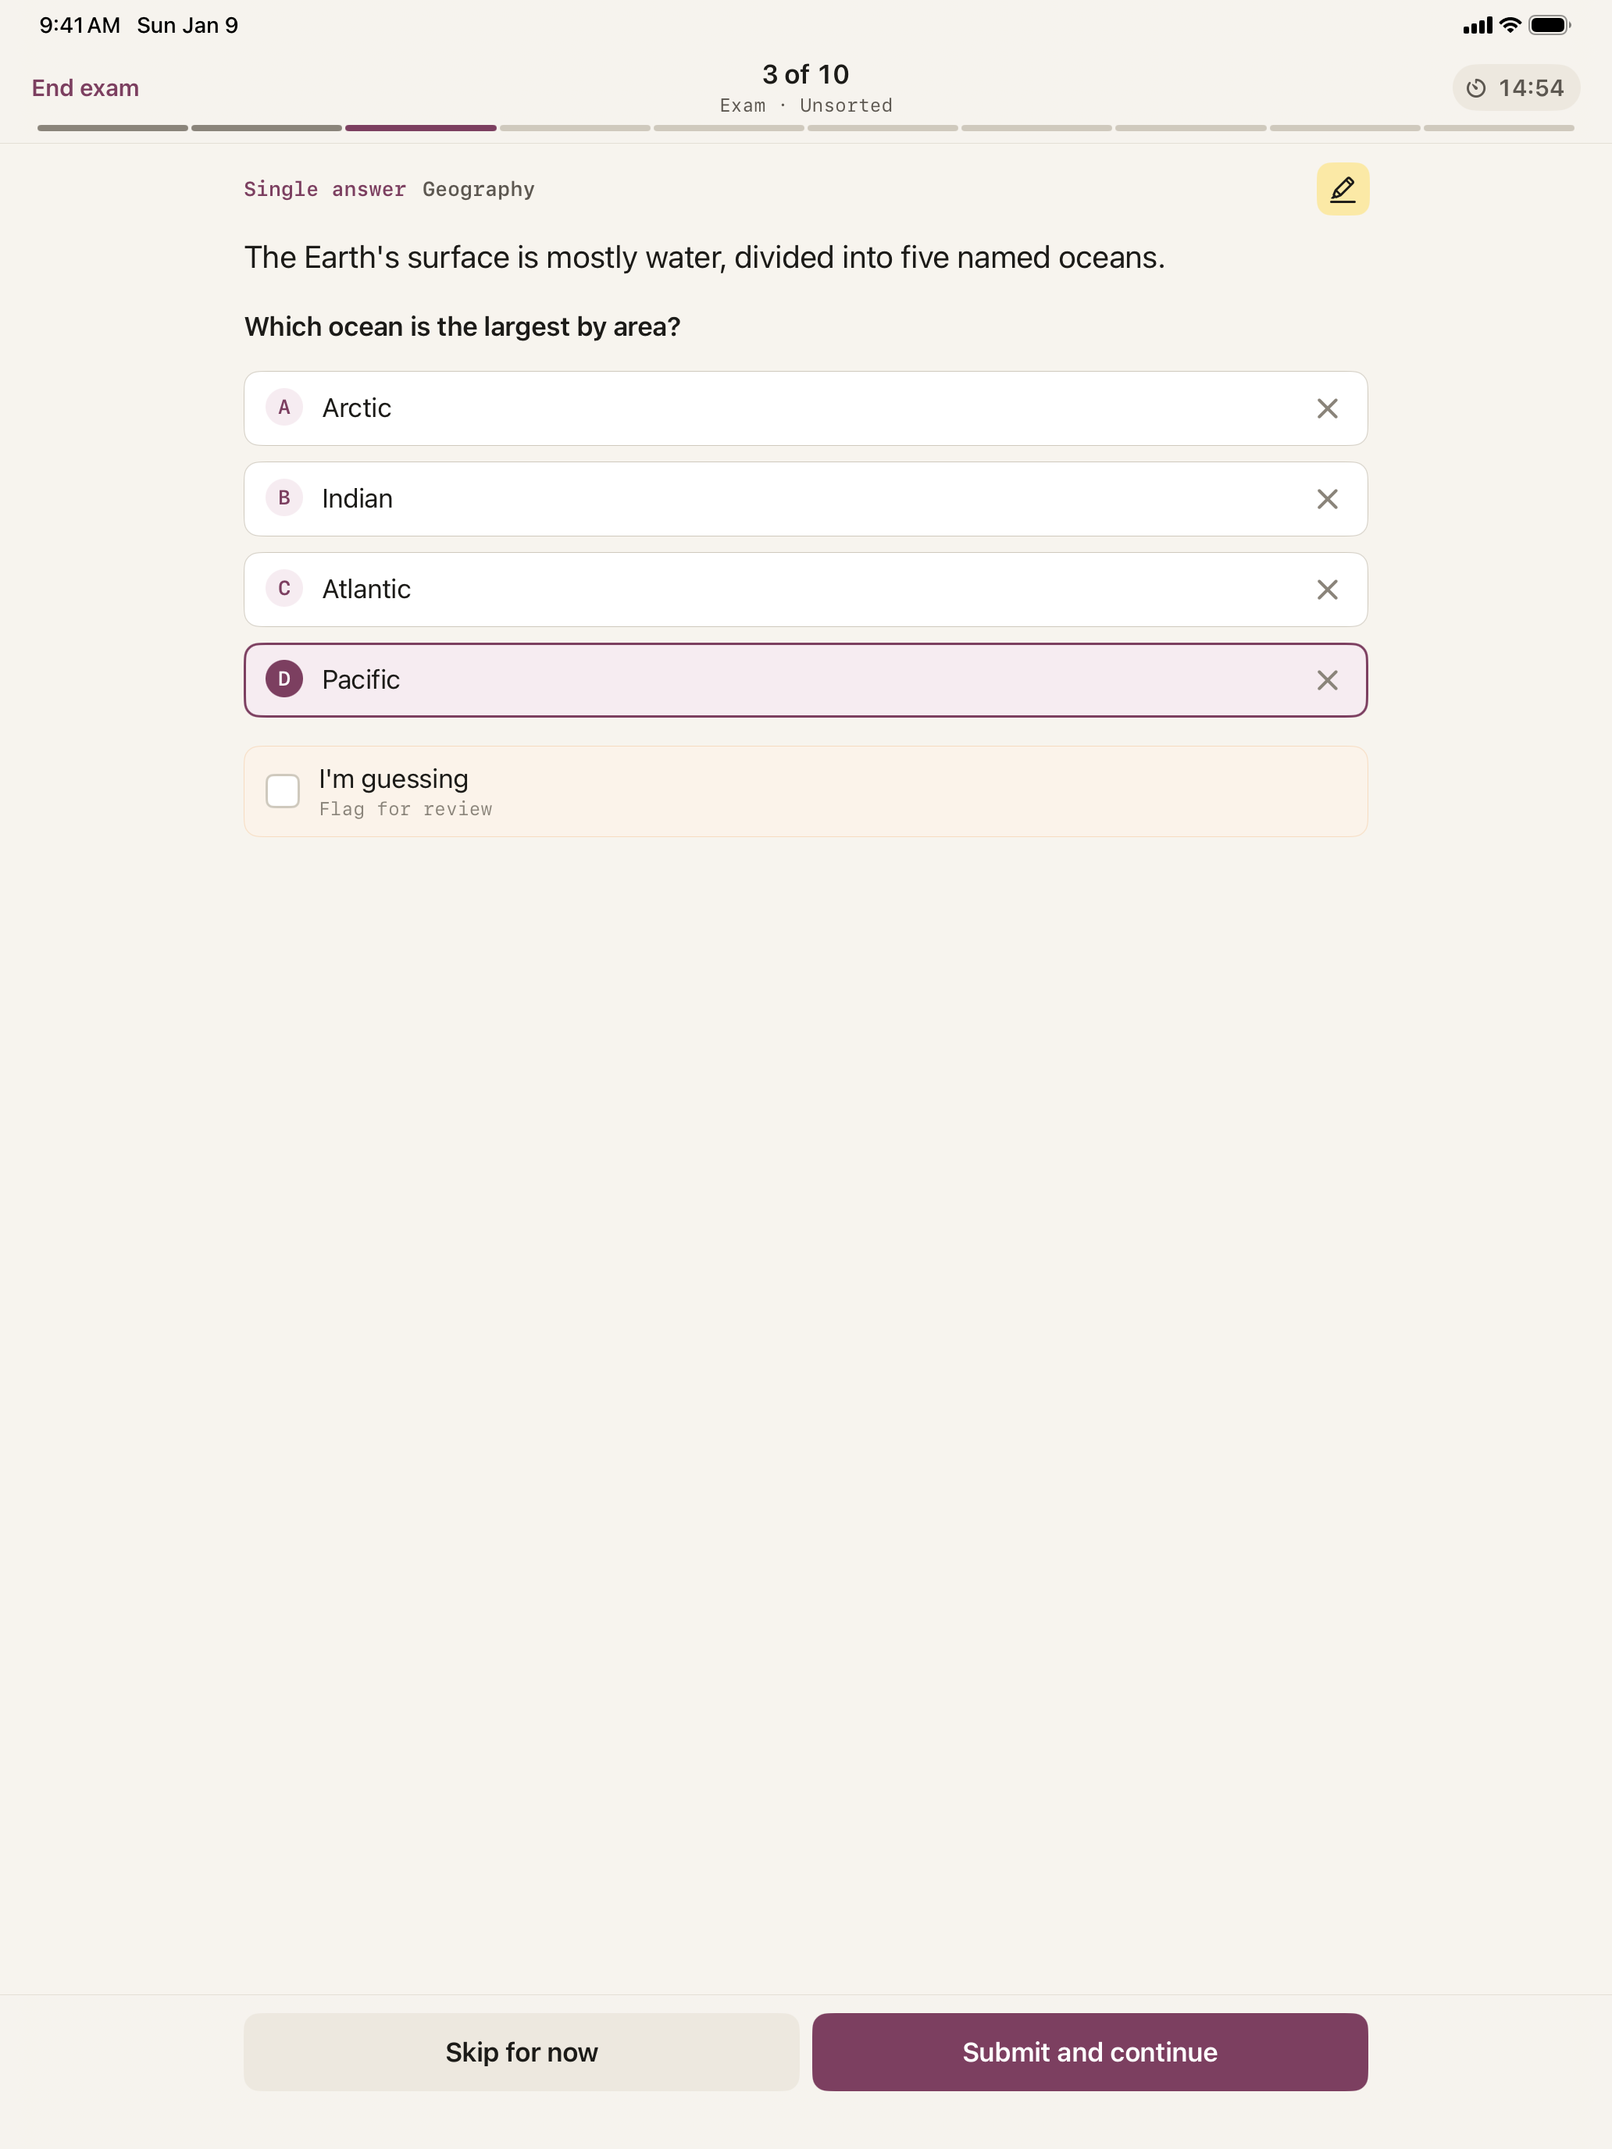
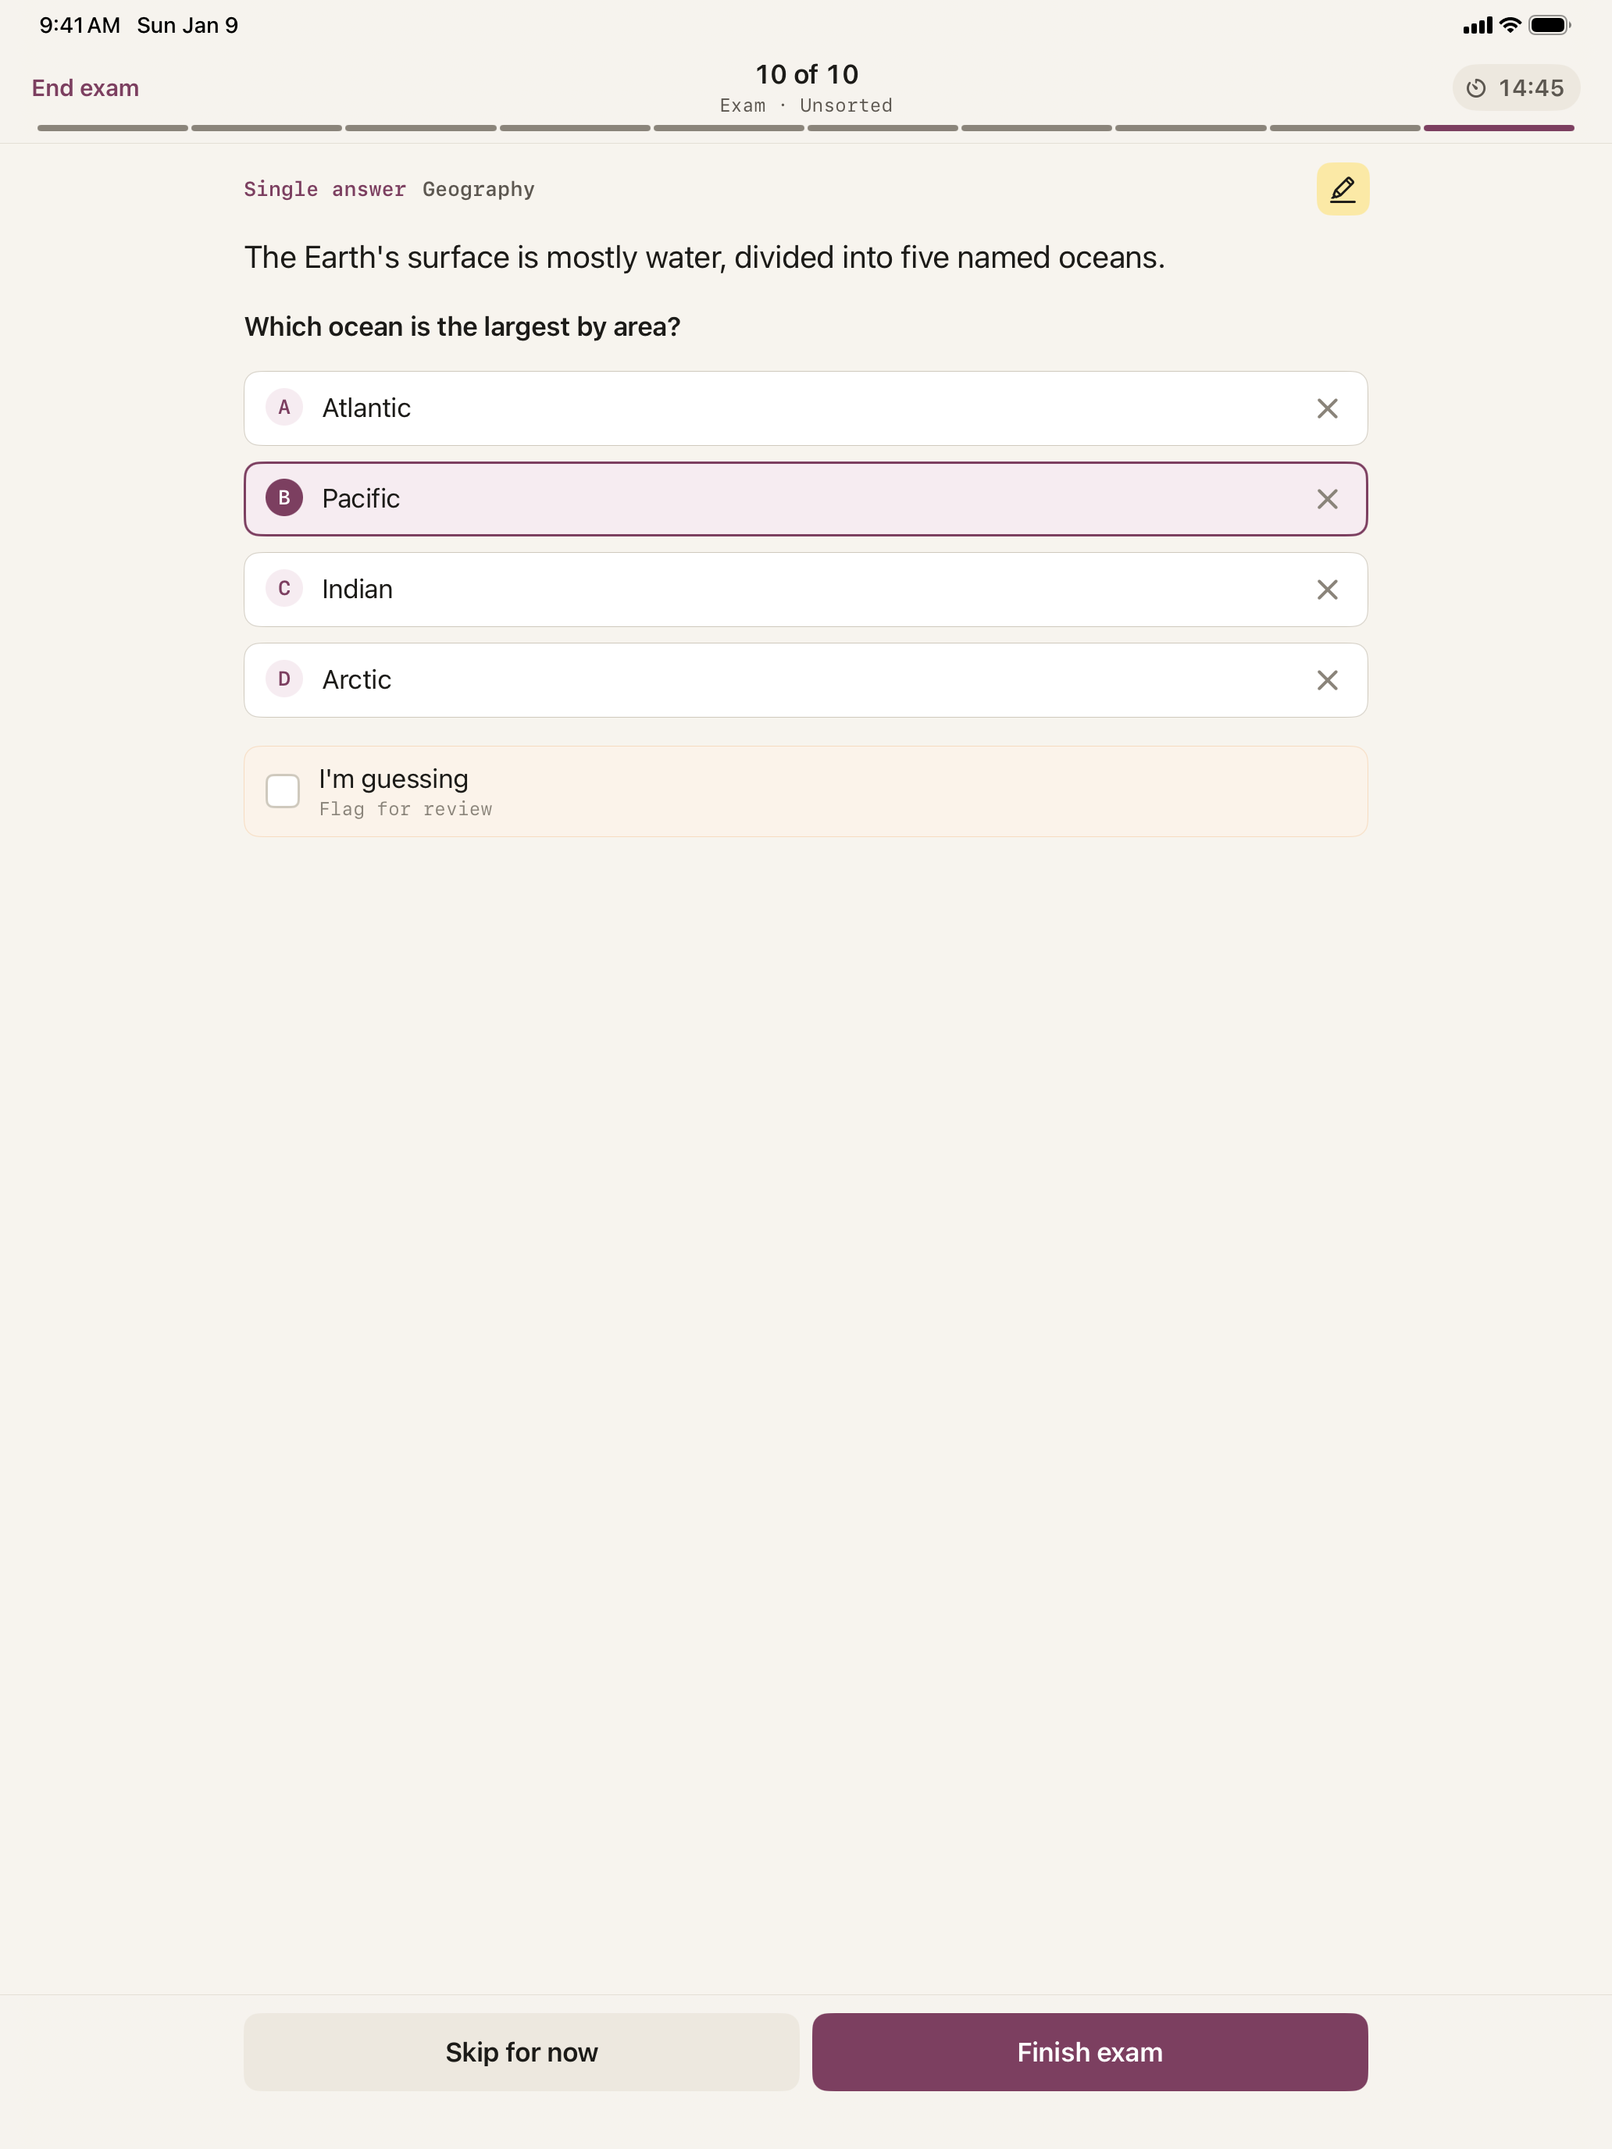
fix(qbank): fill the iPad status bar with the background and keep the exam buttons on one line (#125)
* fix(qbank): paint behind the iPad status bar and keep the exam buttons on one line

On iPad, Home's split view showed its own system background behind the status
bar, a white band in light and a black one in dark. It now takes the app's
canvas color.

On iPhone, "Submit and continue" wrapped in its half of the exam footer and
stood taller than "Skip for now". The two buttons now share a row in equal
halves where both labels fit, else Skip is as wide as its label and Submit takes
the rest, and at large text sizes they stack with Submit on top.

* fix(qbank): word Review's practice button for a single question

With one question under the chosen filter the button read "Practice these 1
(shuffled)". It now reads "Practice this question (shuffled)"; two or more read
as before.

* test(qbank): retake the App Store screenshots with the layout fixes

Taken with test/store-screenshots.sh: no band behind the iPad status bar, and
the exam's footer buttons the same height with one-line labels.

diff --git a/QBank/Exam/ExamAnswerButtons.swift b/QBank/Exam/ExamAnswerButtons.swift
@@ -1,0 +1,81 @@
+import QBankDesign
+import SwiftUI
+
+/// An exam's footer on a question: Skip for now, then Submit and continue or on the last one
+/// Finish exam, as tall as each other and neither label wrapping.
+struct ExamAnswerButtons: View {
+    let submitTitle: String
+    let canSkip: Bool
+    let canSubmit: Bool
+    let frozen: FrozenView
+    let skip: () -> Void
+    let submit: () -> Void
+
+    var body: some View {
+        ExamButtonsLayout {
+            Button("Skip for now", action: skip)
+                .buttonStyle(style(.quiet))
+                .disabled(!canSkip)
+                .accessibilityIdentifier("exam.skip")
+            Button(submitTitle, action: submit)
+                .buttonStyle(style(.primary))
+                .disabled(!canSubmit)
+                .answersWhenFrozen(frozen)
+                .accessibilityIdentifier("exam.submit")
+        }
+    }
+
+    /// Less room at the sides than a large button alone has, so both labels fit one row on the
+    /// narrowest iPhone.
+    private func style(_ variant: QBankButtonStyle.Variant) -> QBankButtonStyle {
+        .qbank(variant, size: .large, fullWidth: true, horizontalPadding: QBankSpacing.space5)
+    }
+}
+
+/// Places the first of two buttons, then the second: in equal halves of a row where each label
+/// fits a half; else the first as wide as its label and the second the rest of the row, as on the
+/// web; else, as at large text sizes, one above the other, the second on top.
+private struct ExamButtonsLayout: Layout {
+    private static let spacing = QBankSpacing.space3
+
+    func sizeThatFits(proposal: ProposedViewSize, subviews: Subviews, cache: inout ()) -> CGSize {
+        frames(of: subviews, in: proposal.width).reduce(CGRect.zero) { $0.union($1) }.size
+    }
+
+    func placeSubviews(in bounds: CGRect, proposal: ProposedViewSize, subviews: Subviews, cache: inout ()) {
+        for (subview, frame) in zip(subviews, frames(of: subviews, in: bounds.width)) {
+            subview.place(
+                at: CGPoint(x: bounds.minX + frame.minX, y: bounds.minY + frame.minY),
+                proposal: ProposedViewSize(frame.size)
+            )
+        }
+    }
+
+    /// Each button's frame from the top leading corner, in the order of `subviews`.
+    private func frames(of subviews: Subviews, in proposed: CGFloat?) -> [CGRect] {
+        guard subviews.count == 2 else { return [] }
+        let first = subviews[0].sizeThatFits(.unspecified).width
+        let second = subviews[1].sizeThatFits(.unspecified).width
+        let oneRow = first + Self.spacing + second
+        let width = proposed.flatMap { $0.isFinite ? $0 : nil } ?? oneRow
+        func height(_ index: Int, _ width: CGFloat) -> CGFloat {
+            subviews[index].sizeThatFits(ProposedViewSize(width: width, height: nil)).height
+        }
+
+        guard oneRow <= width else {
+            let top = height(1, width)
+            return [
+                CGRect(x: 0, y: top + Self.spacing, width: width, height: height(0, width)),
+                CGRect(x: 0, y: 0, width: width, height: top),
+            ]
+        }
+        let half = (width - Self.spacing) / 2
+        let leading = max(first, second) <= half ? half : first
+        let trailing = width - Self.spacing - leading
+        let tallest = max(height(0, leading), height(1, trailing))
+        return [
+            CGRect(x: 0, y: 0, width: leading, height: tallest),
+            CGRect(x: leading + Self.spacing, y: 0, width: trailing, height: tallest),
+        ]
+    }
+}

diff --git a/Packages/QBankDesign/Sources/QBankDesign/Components/QBankButtonStyle.swift b/Packages/QBankDesign/Sources/QBankDesign/Components/QBankButtonStyle.swift
@@ -80,15 +80,19 @@ public struct QBankButtonStyle: ButtonStyle {
     public let variant: Variant
     public let size: Size
     public let fullWidth: Bool
+    /// The room at each side of the label: the size's own unless buttons sharing a row ask for less.
+    public let horizontalPadding: CGFloat
 
-    public init(_ variant: Variant = .primary, size: Size = .medium, fullWidth: Bool = false) {
+    public init(_ variant: Variant = .primary, size: Size = .medium, fullWidth: Bool = false, horizontalPadding: CGFloat? = nil) {
         self.variant = variant
         self.size = size
         self.fullWidth = fullWidth
+        self.horizontalPadding = horizontalPadding ?? size.horizontalPadding
     }
 
     public func makeBody(configuration: Configuration) -> some View {
-        QBankButtonBody(configuration: configuration, variant: variant, size: size, fullWidth: fullWidth)
+        QBankButtonBody(
+            configuration: configuration, variant: variant, size: size, fullWidth: fullWidth, horizontalPadding: horizontalPadding)
     }
 }
 
@@ -97,9 +101,10 @@ extension ButtonStyle where Self == QBankButtonStyle {
     public static func qbank(
         _ variant: QBankButtonStyle.Variant = .primary,
         size: QBankButtonStyle.Size = .medium,
-        fullWidth: Bool = false
+        fullWidth: Bool = false,
+        horizontalPadding: CGFloat? = nil
     ) -> QBankButtonStyle {
-        QBankButtonStyle(variant, size: size, fullWidth: fullWidth)
+        QBankButtonStyle(variant, size: size, fullWidth: fullWidth, horizontalPadding: horizontalPadding)
     }
 }
 
@@ -108,6 +113,7 @@ private struct QBankButtonBody: View {
     let variant: QBankButtonStyle.Variant
     let size: QBankButtonStyle.Size
     let fullWidth: Bool
+    let horizontalPadding: CGFloat
     @Environment(\.isEnabled) private var isEnabled
     @Environment(\.accessibilityReduceMotion) private var reduceMotion
 
@@ -118,7 +124,7 @@ private struct QBankButtonBody: View {
             .qbankFont(size.textStyle, weight: .semibold)
             .multilineTextAlignment(.center)
             .foregroundStyle(.qbank(isEnabled ? foreground : .text3))
-            .padding(.horizontal, size.horizontalPadding)
+            .padding(.horizontal, horizontalPadding)
             .padding(.vertical, size.verticalPadding)
             .frame(minHeight: size.minHeight)
             .frame(maxWidth: fullWidth ? .infinity : nil)

diff --git a/QBankTests/ExamAnswerButtonsTests.swift b/QBankTests/ExamAnswerButtonsTests.swift
@@ -1,0 +1,35 @@
+import QBankDesign
+import SwiftUI
+import Testing
+import UIKit
+@testable import QBank
+
+/// The exam's footer buttons, measured as the device draws them. A row of two large buttons is as
+/// tall as one while neither label wraps.
+@MainActor
+@Suite("Exam answer buttons")
+struct ExamAnswerButtonsTests {
+    private static let oneRow = QBankButtonStyle.Size.large.minHeight
+    private static let stacked = 2 * oneRow + QBankSpacing.space3
+
+    /// The footer's width on iPhones 375, 402 and 440 points wide, and on a wide iPad.
+    @Test(arguments: [343.0, 370, 408, 680], ["Submit and continue", "Finish exam"])
+    func bothButtonsShareOneRowWithoutWrapping(width: Double, title: String) {
+        #expect(height(title, width: width) == Self.oneRow)
+    }
+
+    /// As narrow as a zoomed iPhone's footer.
+    @Test func aRowTooNarrowForBothLabelsStacksThem() {
+        #expect(height("Submit and continue", width: 288) == Self.stacked)
+    }
+
+    @Test func largeTextStacksThemToo() {
+        #expect(height("Submit and continue", width: 343, textSize: .xxxLarge) >= Self.stacked)
+    }
+
+    private func height(_ title: String, width: Double, textSize: DynamicTypeSize = .large) -> CGFloat {
+        let buttons = ExamAnswerButtons(submitTitle: title, canSkip: true, canSubmit: true, frozen: FrozenView(), skip: {}, submit: {})
+            .environment(\.dynamicTypeSize, textSize)
+        return UIHostingController(rootView: buttons).sizeThatFits(in: CGSize(width: width, height: 1000)).height
+    }
+}

diff --git a/QBank/Exam/ExamView.swift b/QBank/Exam/ExamView.swift
@@ -106,21 +106,14 @@ struct ExamView: View {
                 .answersWhenFrozen(frozen)
                 .accessibilityIdentifier("exam.finishPending")
             } else if model.isRunning, model.item != nil {
-                HStack(spacing: QBankSpacing.space3) {
-                    Button("Skip for now") {
-                        Task { await model.skip() }
-                    }
-                    .buttonStyle(.qbank(.quiet, size: .large, fullWidth: true))
-                    .disabled(!model.isAnswering)
-                    .accessibilityIdentifier("exam.skip")
-                    Button(model.isLastPending ? "Finish exam" : "Submit and continue") {
-                        Task { await model.submit() }
-                    }
-                    .buttonStyle(.qbank(.primary, size: .large, fullWidth: true))
-                    .disabled(!model.canSubmit)
-                    .answersWhenFrozen(frozen)
-                    .accessibilityIdentifier("exam.submit")
-                }
+                ExamAnswerButtons(
+                    submitTitle: model.isLastPending ? "Finish exam" : "Submit and continue",
+                    canSkip: model.isAnswering,
+                    canSubmit: model.canSubmit,
+                    frozen: frozen,
+                    skip: { Task { await model.skip() } },
+                    submit: { Task { await model.submit() } }
+                )
             }
         }
     }

diff --git a/QBankTests/ReviewAndSetupTests.swift b/QBankTests/ReviewAndSetupTests.swift
@@ -28,6 +28,16 @@ struct ReviewModelTests {
         #expect(server.requests.count == 1, "filters need no connection")
     }
 
+    @Test func thePracticeButtonReadsRightForOneQuestionAndForMany() async {
+        let server = StubServer(["GET /api/courses/c1/review": .ok(StudyBodies.review())])
+        let (app, _) = TestApp.make(server, account: .student())
+        let model = ReviewModel(app: app, course: Self.course)
+        await model.load()
+        #expect(model.practiceTitle == "Practice these 2 (shuffled)")
+        model.choose(.missed)
+        #expect(model.practiceTitle == "Practice this question (shuffled)")
+    }
+
     @Test func withoutAConnectionTheListSavedLastShows() async throws {
         let server = StubServer(["GET /api/courses/c1/review": .ok(StudyBodies.review())])
         let connection = Connection()

diff --git a/QBankUITests/FreeModeUITests.swift b/QBankUITests/FreeModeUITests.swift
@@ -75,7 +75,7 @@ final class FreeModeUITests: XCTestCase {
         let listed = app.buttons.matching(NSPredicate(format: "identifier BEGINSWITH 'review.question.'"))
         XCTAssertEqual(listed.count, 1)
         attach(app, "free new bank, review")
-        tapVisible(app.buttons["Practice these 1 (shuffled)"], in: app)
+        tapVisible(app.buttons["Practice this question (shuffled)"], in: app)
         XCTAssertTrue(app.buttons["practice.close"].appears(timeout: 5))
         XCTAssertTrue(app.staticTexts["practice.count"].label.hasPrefix("1 of 1"))
         app.buttons["practice.close"].tap()

diff --git a/QBank/Review/ReviewModel.swift b/QBank/Review/ReviewModel.swift
@@ -31,9 +31,14 @@ final class ReviewModel {
         (list?.questions ?? []).filter { Self.matches($0, filter) }
     }
 
-    /// How many questions the chosen filter holds, for "Practice these N".
+    /// How many questions the chosen filter holds.
     var selectedCount: Int {
         list.map { Self.count(of: filter, in: $0.counts) } ?? 0
+    }
+
+    /// The button that practices the chosen filter's questions.
+    var practiceTitle: String {
+        selectedCount == 1 ? "Practice this question (shuffled)" : "Practice these \(selectedCount) (shuffled)"
     }
 
     var allCount: Int {

diff --git a/QBank/Review/ReviewView.swift b/QBank/Review/ReviewView.swift
@@ -33,7 +33,7 @@ struct ReviewView: View {
                     Button {
                         practicing = model.practice()
                     } label: {
-                        Label("Practice these \(model.selectedCount) (shuffled)", systemImage: "shuffle")
+                        Label(model.practiceTitle, systemImage: "shuffle")
                     }
                     .buttonStyle(.qbank(.primary, size: .large, fullWidth: true))
                     .accessibilityIdentifier("review.practice")

diff --git a/QBank/Home/HomeView.swift b/QBank/Home/HomeView.swift
@@ -105,6 +105,8 @@ struct HomeView: View {
         NavigationSplitView(preferredCompactColumn: $navigator.compactColumn) {
             courses
                 .navigationSplitViewColumnWidth(QBankLayout.sidebarWidth)
+                // The split view's own background shows behind the status bar, over both columns.
+                .containerBackground(.qbank(.bg), for: .navigationSplitView)
         } detail: {
             NavigationStack(path: $navigator.path) {
                 Group {
